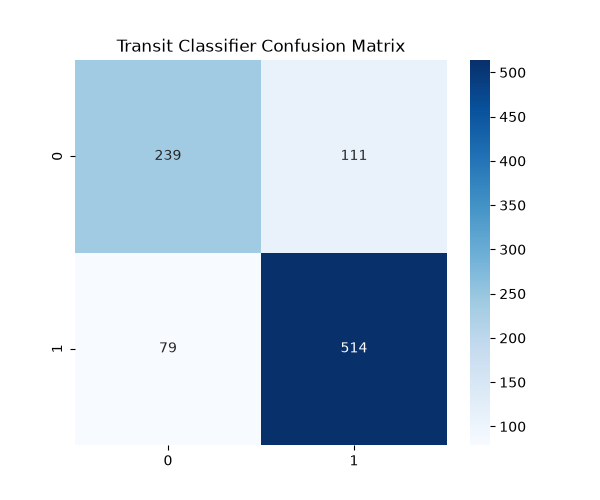
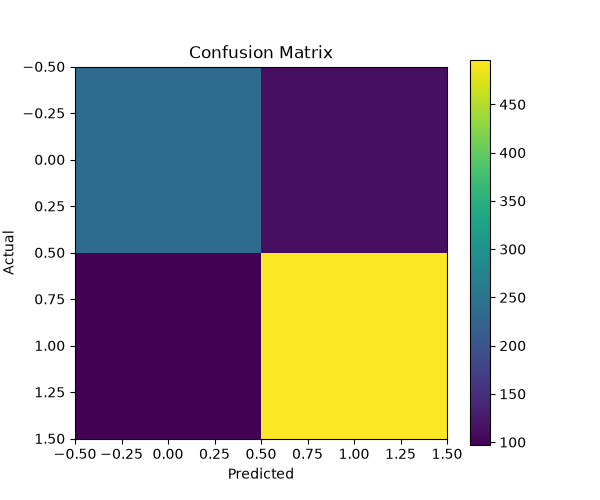
Add ROC and PR curve evaluation metrics

diff --git a/04_evaluate_classifier.py b/04_evaluate_classifier.py
@@ -10,15 +10,19 @@ from torch.utils.data import Dataset, DataLoader
 from sklearn.metrics import (
     confusion_matrix,
     classification_report,
-    roc_auc_score
+    roc_auc_score,
+    roc_curve,
+    precision_recall_curve,
+    average_precision_score
 )
 
 import matplotlib.pyplot as plt
-import seaborn as sns
-
 
 DATA_DIR = "data/processed"
 MODEL_DIR = "models"
+ASSETS_DIR = "assets"
+
+os.makedirs(ASSETS_DIR, exist_ok=True)
 
 
 class LightCurveDataset(Dataset):
@@ -33,17 +37,25 @@ class LightCurveDataset(Dataset):
         d = np.load(self.files[idx], allow_pickle=True)
 
         global_view = torch.tensor(
-            d["global_view"], dtype=torch.float32
+            d["global_view"],
+            dtype=torch.float32
         )
 
         local_view = torch.tensor(
-            d["local_view"], dtype=torch.float32
+            d["local_view"],
+            dtype=torch.float32
         )
 
         period = float(d["period"])
         duration = float(d["duration_hrs"])
+
         depth = float(d["depth_ppm"])
+        if np.isnan(depth):
+            depth = 0.0
+
         snr = float(d["snr"])
+        if np.isnan(snr):
+            snr = 0.0
 
         scalars = torch.tensor([
             np.log1p(period) / 5.0,
@@ -58,20 +70,19 @@ class LightCurveDataset(Dataset):
 
 
 class TransitClassifier(nn.Module):
-
     def __init__(self, num_classes=2):
         super().__init__()
 
         self.global_branch = nn.Sequential(
-            nn.Conv1d(1,16,5,padding=2),
+            nn.Conv1d(1, 16, kernel_size=5, padding=2),
             nn.ReLU(),
             nn.MaxPool1d(2),
 
-            nn.Conv1d(16,32,5,padding=2),
+            nn.Conv1d(16, 32, kernel_size=5, padding=2),
             nn.ReLU(),
             nn.MaxPool1d(2),
 
-            nn.Conv1d(32,64,5,padding=2),
+            nn.Conv1d(32, 64, kernel_size=5, padding=2),
             nn.ReLU(),
             nn.MaxPool1d(2),
 
@@ -79,11 +90,11 @@ class TransitClassifier(nn.Module):
         )
 
         self.local_branch = nn.Sequential(
-            nn.Conv1d(1,16,5,padding=2),
+            nn.Conv1d(1, 16, kernel_size=5, padding=2),
             nn.ReLU(),
             nn.MaxPool1d(2),
 
-            nn.Conv1d(16,32,5,padding=2),
+            nn.Conv1d(16, 32, kernel_size=5, padding=2),
             nn.ReLU(),
             nn.MaxPool1d(2),
 
@@ -91,140 +102,184 @@ class TransitClassifier(nn.Module):
         )
 
         self.scalar_branch = nn.Sequential(
-            nn.Linear(4,32),
+            nn.Linear(4, 32),
             nn.ReLU()
         )
 
         with torch.no_grad():
-            g = self.global_branch(
-                torch.zeros(1,1,201)
-            ).shape[1]
+            g_dummy = torch.zeros(1, 1, 201)
+            l_dummy = torch.zeros(1, 1, 61)
 
-            l = self.local_branch(
-                torch.zeros(1,1,61)
-            ).shape[1]
+            g_out = self.global_branch(g_dummy).shape[1]
+            l_out = self.local_branch(l_dummy).shape[1]
 
         self.fusion = nn.Sequential(
-            nn.Linear(g+l+32,128),
+            nn.Linear(g_out + l_out + 32, 128),
             nn.ReLU(),
             nn.Dropout(0.3),
 
-            nn.Linear(128,64),
+            nn.Linear(128, 64),
             nn.ReLU(),
             nn.Dropout(0.2),
 
-            nn.Linear(64,num_classes)
+            nn.Linear(64, num_classes)
         )
 
-    def forward(self,g,l,s):
+    def forward(self, global_view, local_view, scalars):
+        g = self.global_branch(global_view.unsqueeze(1))
+        l = self.local_branch(local_view.unsqueeze(1))
+        s = self.scalar_branch(scalars)
 
-        g = self.global_branch(g.unsqueeze(1))
-        l = self.local_branch(l.unsqueeze(1))
-        s = self.scalar_branch(s)
+        fused = torch.cat([g, l, s], dim=1)
 
-        x = torch.cat([g,l,s],dim=1)
-
-        return self.fusion(x)
+        return self.fusion(fused)
 
 
-files = glob.glob(os.path.join(DATA_DIR,"*.npz"))
+def main():
 
-with open(os.path.join(MODEL_DIR,"label_encoder.json")) as f:
-    label_to_idx = json.load(f)
+    files = glob.glob(os.path.join(DATA_DIR, "*.npz"))
 
-dataset = LightCurveDataset(files,label_to_idx)
+    with open(os.path.join(MODEL_DIR, "label_encoder.json")) as f:
+        label_to_idx = json.load(f)
 
-loader = DataLoader(
-    dataset,
-    batch_size=32,
-    shuffle=False
-)
+    dataset = LightCurveDataset(files, label_to_idx)
 
-model = TransitClassifier(
-    num_classes=len(label_to_idx)
-)
+    loader = DataLoader(
+        dataset,
+        batch_size=32,
+        shuffle=False
+    )
 
-model.load_state_dict(
-    torch.load(
-        os.path.join(
-            MODEL_DIR,
-            "transit_classifier.pt"
+    model = TransitClassifier(
+        num_classes=len(label_to_idx)
+    )
+
+    model.load_state_dict(
+        torch.load(
+            os.path.join(
+                MODEL_DIR,
+                "transit_classifier.pt"
+            ),
+            map_location="cpu"
         )
     )
-)
 
-model.eval()
+    model.eval()
 
-all_preds = []
-all_labels = []
-all_probs = []
+    all_preds = []
+    all_labels = []
+    all_probs = []
 
-with torch.no_grad():
+    with torch.no_grad():
 
-    for g,l,s,y in loader:
+        for g, l, s, y in loader:
 
-        logits = model(g,l,s)
+            logits = model(g, l, s)
 
-        probs = torch.softmax(
-            logits,
-            dim=1
+            probs = torch.softmax(
+                logits,
+                dim=1
+            )
+
+            preds = logits.argmax(1)
+
+            all_preds.extend(
+                preds.cpu().numpy()
+            )
+
+            all_labels.extend(
+                y.cpu().numpy()
+            )
+
+            all_probs.extend(
+                probs[:, 1].cpu().numpy()
+            )
+
+    print("\nCLASSIFICATION REPORT\n")
+
+    print(
+        classification_report(
+            all_labels,
+            all_preds
         )
+    )
 
-        preds = logits.argmax(1)
-
-        all_preds.extend(
-            preds.cpu().numpy()
-        )
-
-        all_labels.extend(
-            y.cpu().numpy()
-        )
-
-        all_probs.extend(
-            probs[:,1].cpu().numpy()
-        )
-
-print("\nCLASSIFICATION REPORT\n")
-
-print(
-    classification_report(
+    cm = confusion_matrix(
         all_labels,
         all_preds
     )
-)
 
-cm = confusion_matrix(
-    all_labels,
-    all_preds
-)
+    print("\nCONFUSION MATRIX\n")
+    print(cm)
 
-print("\nCONFUSION MATRIX\n")
-print(cm)
+    auc = roc_auc_score(
+        all_labels,
+        all_probs
+    )
 
-auc = roc_auc_score(
-    all_labels,
-    all_probs
-)
+    print(f"\nROC AUC = {auc:.4f}")
 
-print(f"\nROC AUC = {auc:.4f}")
+    plt.figure(figsize=(6, 5))
+    plt.imshow(cm)
+    plt.colorbar()
+    plt.title("Confusion Matrix")
+    plt.xlabel("Predicted")
+    plt.ylabel("Actual")
+    plt.savefig(
+        os.path.join(
+            ASSETS_DIR,
+            "confusion_matrix.png"
+        )
+    )
+    plt.close()
 
-plt.figure(figsize=(6,5))
+    fpr, tpr, _ = roc_curve(
+        all_labels,
+        all_probs
+    )
 
-sns.heatmap(
-    cm,
-    annot=True,
-    fmt="d",
-    cmap="Blues"
-)
+    plt.figure(figsize=(6, 5))
+    plt.plot(fpr, tpr)
+    plt.plot([0, 1], [0, 1])
+    plt.title(f"ROC Curve (AUC={auc:.4f})")
+    plt.xlabel("False Positive Rate")
+    plt.ylabel("True Positive Rate")
+    plt.savefig(
+        os.path.join(
+            ASSETS_DIR,
+            "roc_curve.png"
+        )
+    )
+    plt.close()
 
-plt.title(
-    "Transit Classifier Confusion Matrix"
-)
+    precision, recall, _ = precision_recall_curve(
+        all_labels,
+        all_probs
+    )
 
-plt.savefig(
-    "confusion_matrix.png"
-)
+    ap = average_precision_score(
+        all_labels,
+        all_probs
+    )
 
-print(
-    "\nSaved confusion_matrix.png"
-)
+    plt.figure(figsize=(6, 5))
+    plt.plot(recall, precision)
+    plt.title(f"PR Curve (AP={ap:.4f})")
+    plt.xlabel("Recall")
+    plt.ylabel("Precision")
+    plt.savefig(
+        os.path.join(
+            ASSETS_DIR,
+            "pr_curve.png"
+        )
+    )
+    plt.close()
+
+    print("\nSaved:")
+    print("assets/confusion_matrix.png")
+    print("assets/roc_curve.png")
+    print("assets/pr_curve.png")
+
+
+if __name__ == "__main__":
+    main()